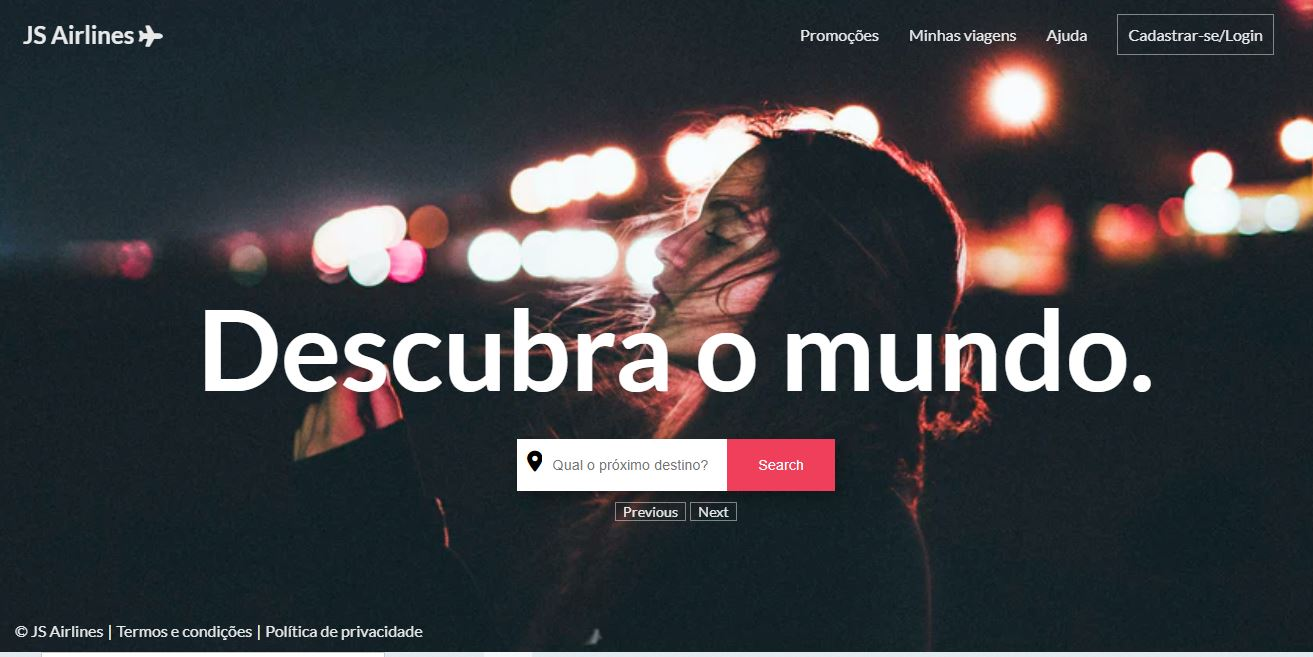
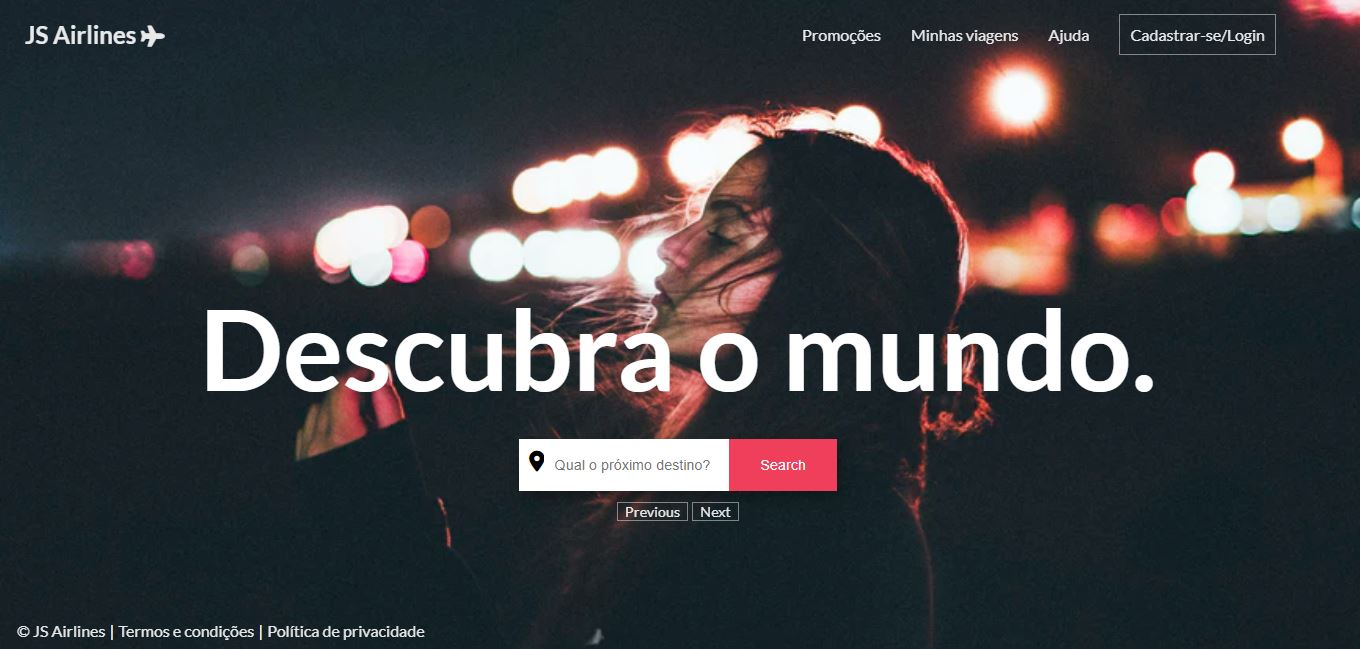
Design e texto botao

diff --git a/index.html b/index.html
@@ -38,18 +38,11 @@
                     <i class="fa-solid fa-location-dot"></i>
                 </label>
                 <input type="search" placeholder="Qual o próximo destino?">
-                <input type="submit" value="Search">
+                <input type="submit" value="Pesquisar">
             </form>
 
-            <nav>
-                <ul class="pagination">
-                    <li class="page-item">
-                        <a id="previous" class="page-link" tabindex="-1">Previous</a>
-                    </li>
-                    <li class="page-item">
-                        <a id="next" class="page-link">Next</a>
-                    </li>
-                </ul>
+            <nav class="pagination">
+                <a id="previous" class="page-link" tabindex="-1">Oferta do dia ></a>
             </nav>
 
             <div id="footer">

diff --git a/styles.css b/styles.css
@@ -149,22 +149,15 @@ body {
     font-size: 0.9rem;
   }
 
-  /* botões */
+  /* botão explorar */
 
   .pagination {
-    display: flex;
-    flex-direction: row;
-    align-items: center;
-  }
-
-  .page-item {
-    padding: 0px 2px;
-    margin-top: 10px;
+    margin-top: 20px;
   }
 
   .page-link {
     color: #fff;
-    padding: 0px 7px;
+    padding: 5px 10px;
     border: 1px solid rgba(255,255,255,0.5);
     transition: all 0.2s;
     font-size: 0.9rem;
